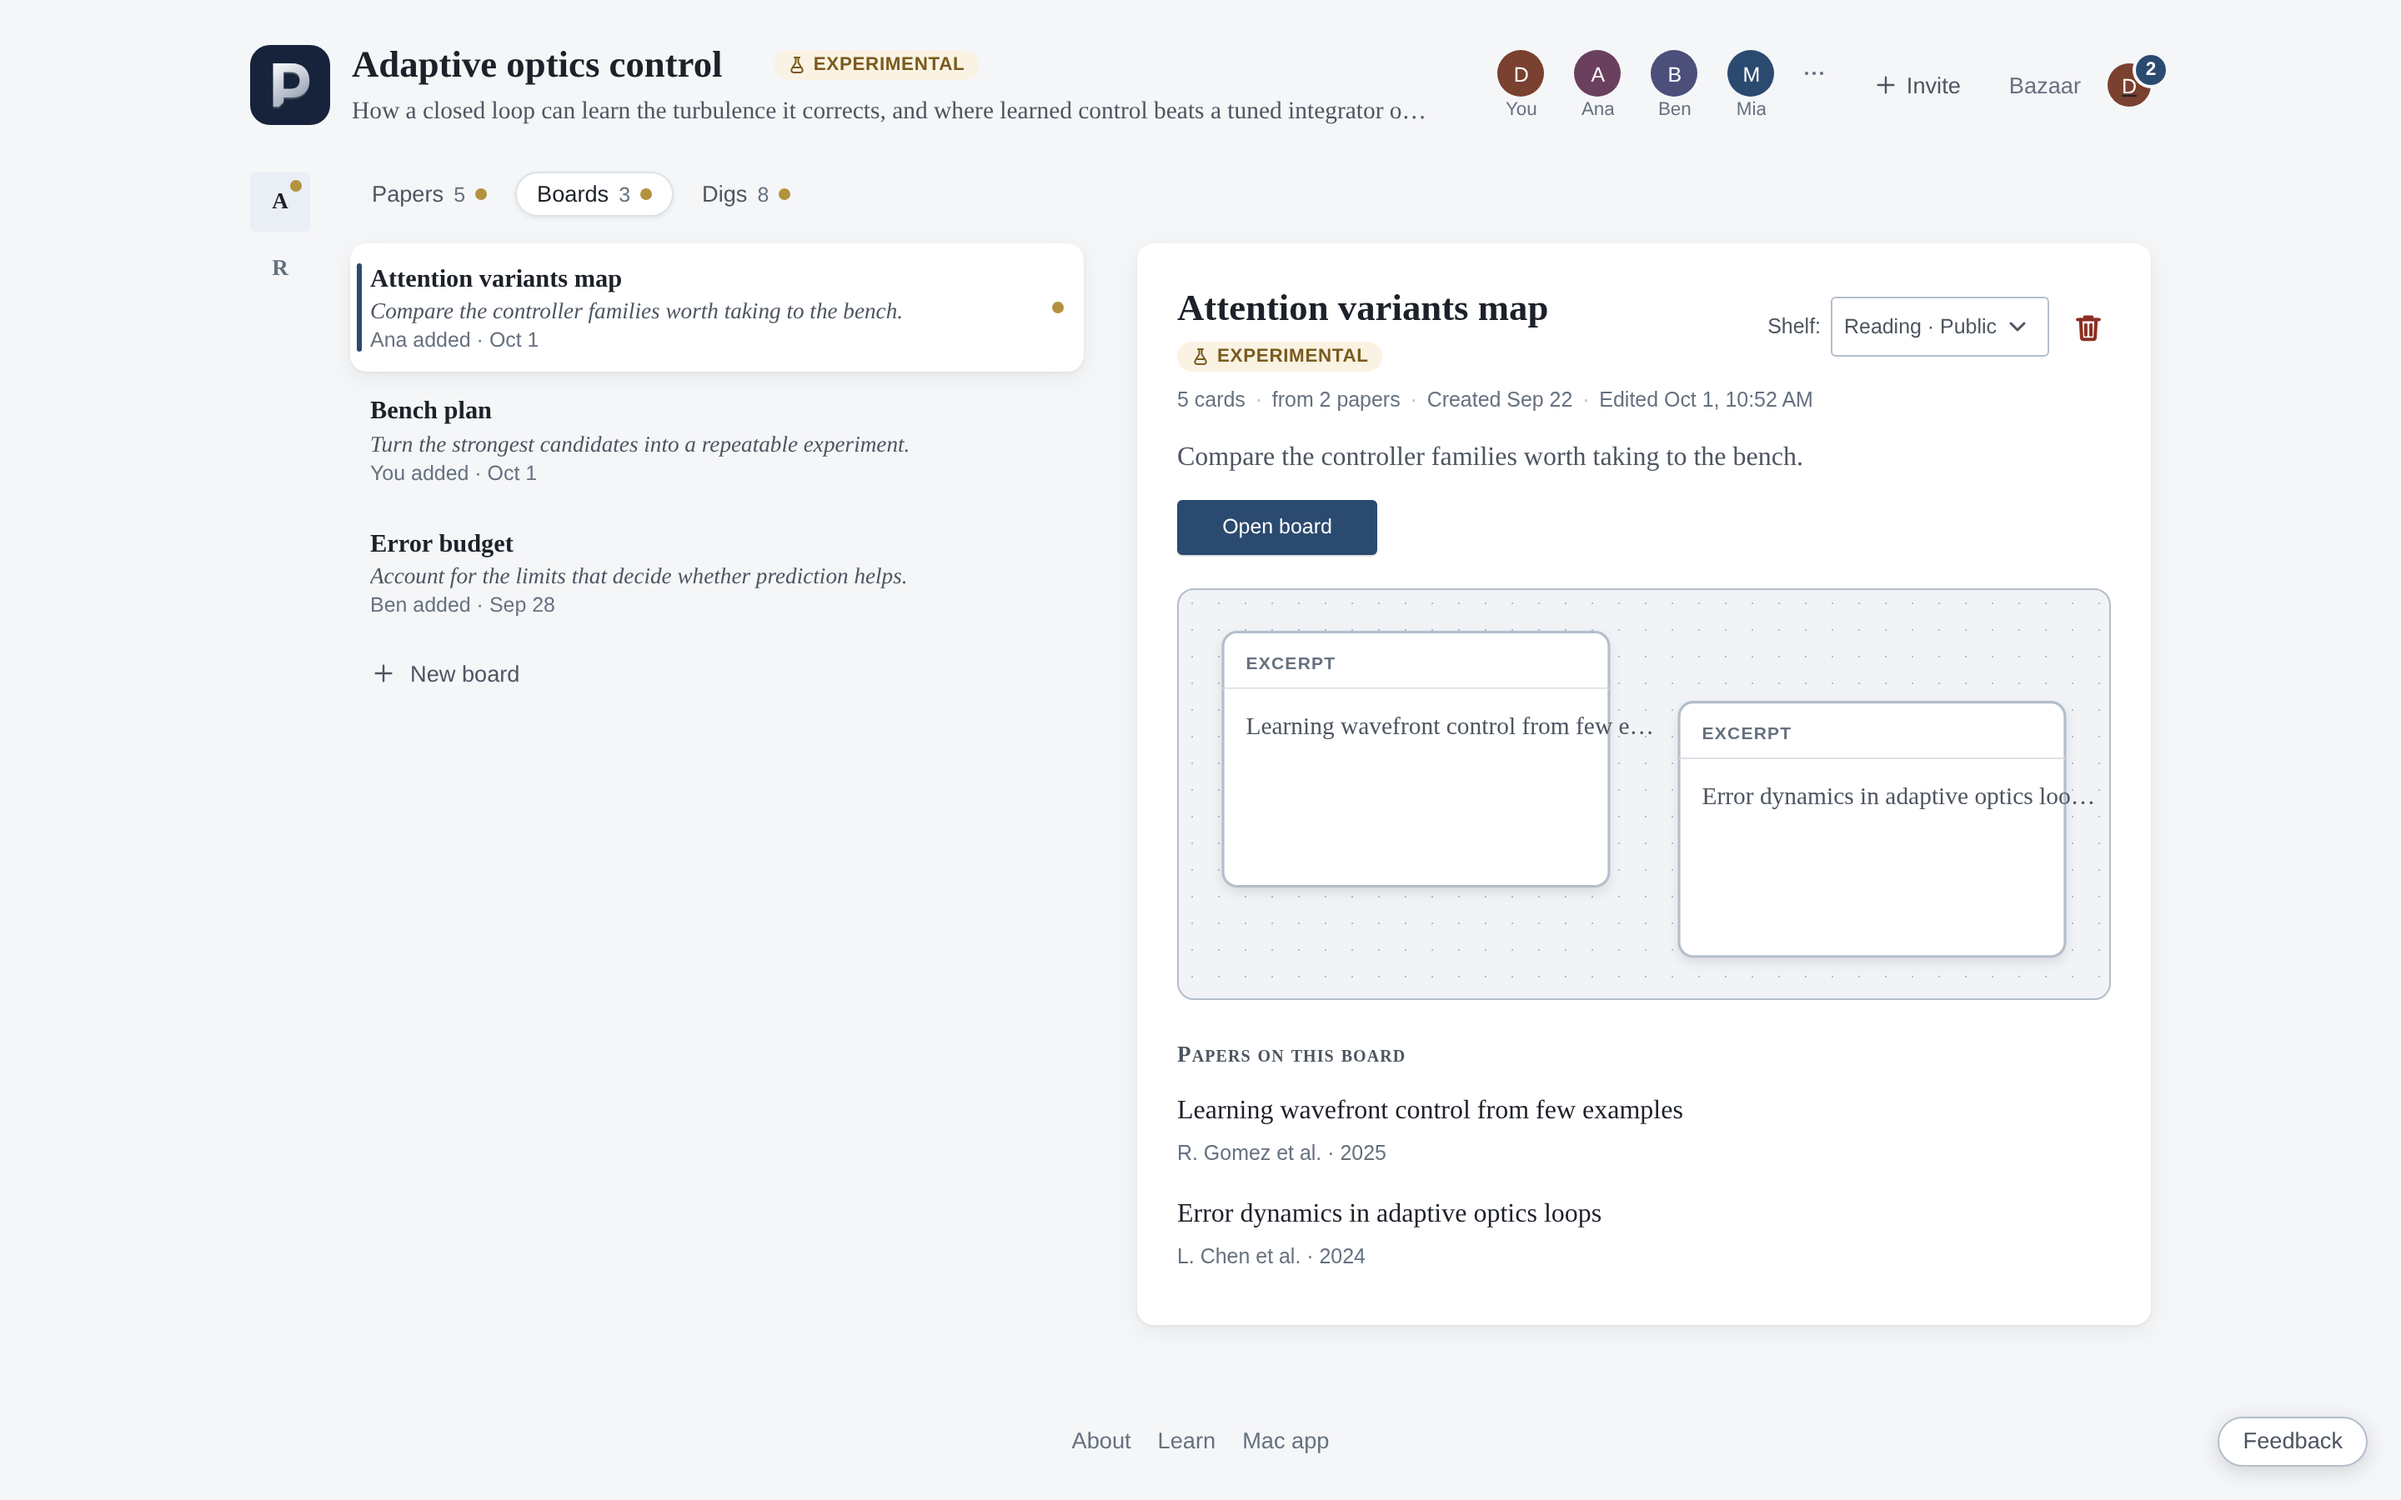
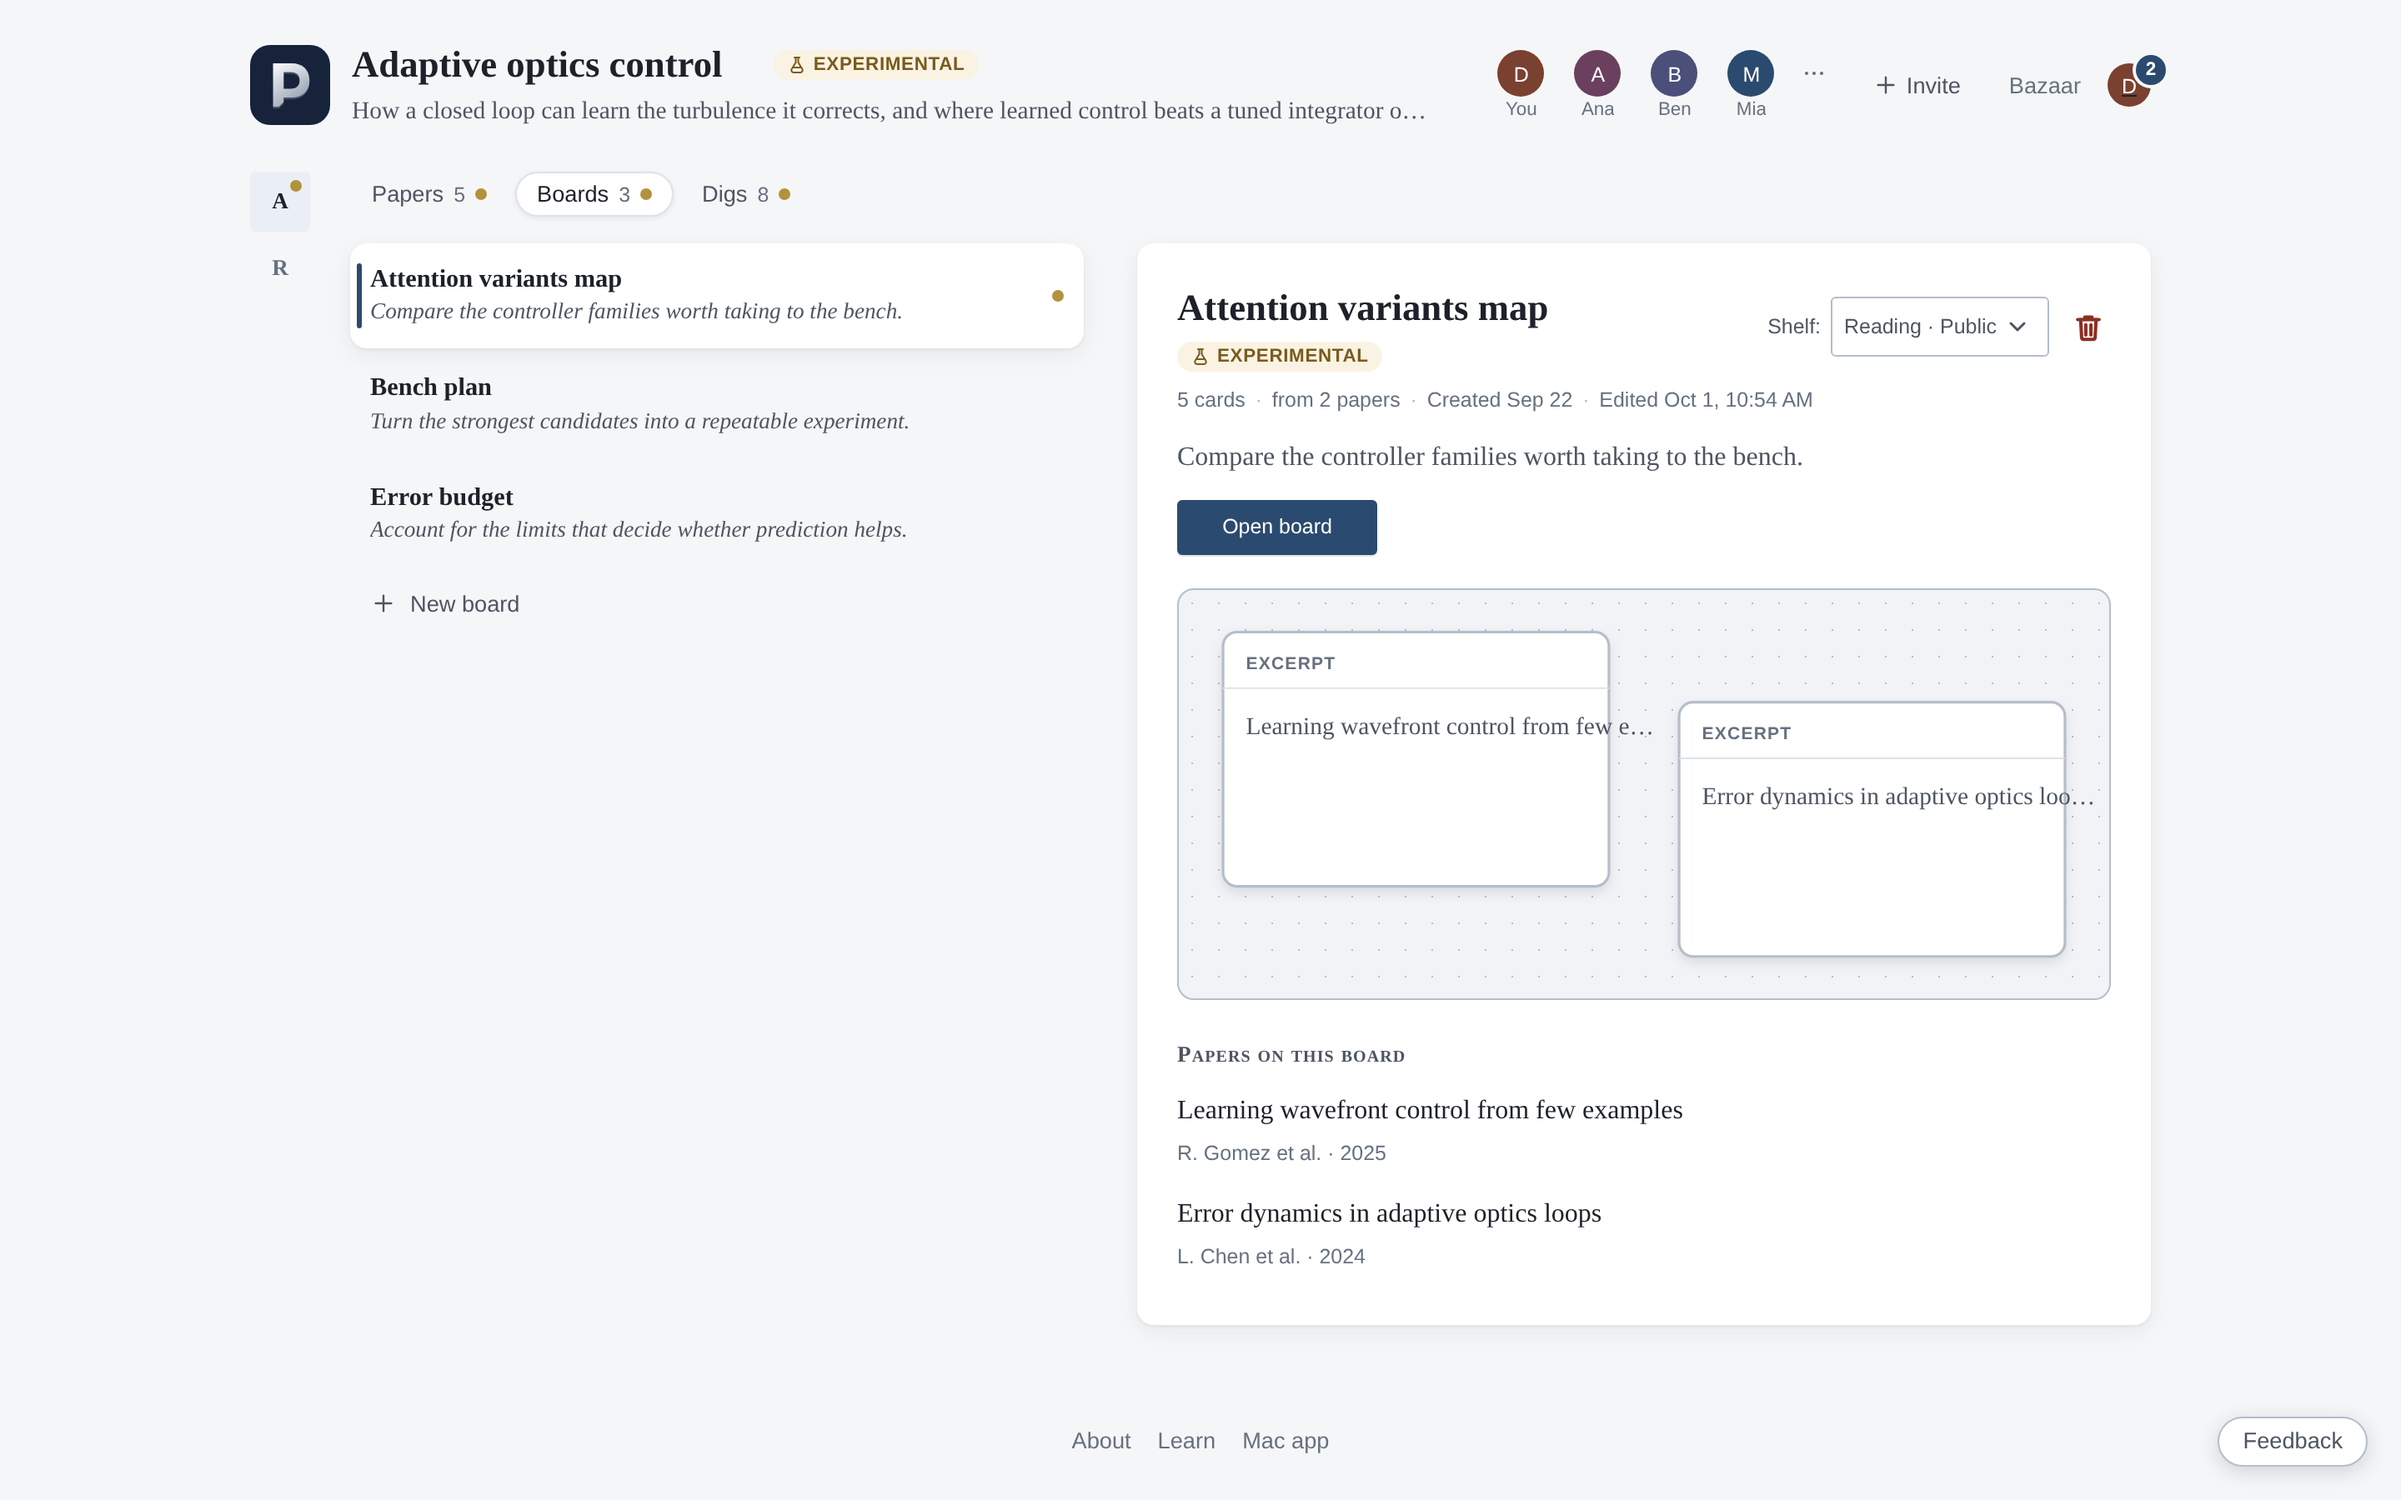
Keep board rail descriptions uncluttered

Changed region(s): [[0.1562, 0.2178, 0.375, 0.4044], [0.1562, 0.4356, 0.2188, 0.4667]]

diff --git a/frontend/src/components/ProjectPage.jsx b/frontend/src/components/ProjectPage.jsx
@@ -270,7 +270,7 @@ export default function ProjectPage({ projectUuid, board = null, currentUser, on
             )}
             {view === 'boards' && (
               <ProjectBoards
-                project={project} board={board} act={act} hasNews={hasNews} currentUser={currentUser}
+                project={project} board={board} act={act} hasNews={hasNews}
                 onOpenBoard={onOpenBoard} onOpenCanvas={onOpenCanvas} onChanged={talked}
               />
             )}
@@ -709,13 +709,13 @@ function useWide(query = '(min-width: 1000px)') {
 }
 
 // The project's boards, which every member arranges, as a list read like
-// the papers: each board by its name and description, then who last put
-// something there. A board picked here opens its jacket beside the list on a
-// wide window, under its row on a narrow one, and has the address of its
+// the papers: each board by its name and description. A board picked here
+// opens its jacket beside the list on a wide window, under its row on a
+// narrow one, and has the address of its
 // own; the canvas is the jacket's way in. On a wide window there is always
 // a jacket beside the list: the one picked, else the first new board,
 // else the latest. The last row makes one more.
-function ProjectBoards({ project, board, act, hasNews, currentUser, onOpenBoard, onOpenCanvas, onChanged }) {
+function ProjectBoards({ project, board, act, hasNews, onOpenBoard, onOpenCanvas, onChanged }) {
   const wide = useWide();
   const boards = project.boards ?? [];
   const chosen = boards.find((b) => b.uuid === board)
@@ -723,7 +723,6 @@ function ProjectBoards({ project, board, act, hasNews, currentUser, onOpenBoard,
   // Moving from one board to the next replaces the address, so Back
   // leaves the tab rather than walking through every board looked at.
   const pick = (uuid) => onOpenBoard(uuid, board ? { replace: true } : undefined);
-  const isMe = (user) => user.uuid === currentUser?.uuid;
   const jacket = (b) => (
     <BoardJacket
       key={b.uuid}
@@ -751,8 +750,6 @@ function ProjectBoards({ project, board, act, hasNews, currentUser, onOpenBoard,
           const selected = chosen?.uuid === b.uuid;
           // A narrow window folds the jacket away again on a second press.
           const choose = () => (selected && !wide ? onOpenBoard(null, { replace: true }) : pick(b.uuid));
-          const latest = b.latest_card;
-          const who = latest ? latest.added_by : b.owner;
           return (
             <React.Fragment key={b.uuid}>
               <li
@@ -772,12 +769,6 @@ function ProjectBoards({ project, board, act, hasNews, currentUser, onOpenBoard,
                   </h4>
                   {b.description && <p className="project-card-authors project-board-description">{b.description}</p>}
                 </div>
-                <span className="project-row-facts">
-                  <span className="project-card-added">
-                    {who && <>{isMe(who) ? 'You' : firstName(who)} {latest ? 'added' : 'made it'} · </>}
-                    {when(latest ? latest.added_at : b.created_at ?? b.updated_at)}
-                  </span>
-                </span>
                 <span className="project-row-end">
                   {(b.is_new || hasNews((subject) => subject.board_uuid === b.uuid)) && <NewsDot />}
                 </span>

diff --git a/shared/applicationStyles.js b/shared/applicationStyles.js
@@ -5250,9 +5250,10 @@ button.project-quiet.project-danger:hover:not(:disabled) { background: var(--red
 .project-card-authors { margin: 0; overflow: hidden; color: var(--ink-soft); font: italic var(--fs-sm) var(--font-serif); text-overflow: ellipsis; white-space: nowrap; }
 .project-card-added { margin: var(--space-2) 0 0; color: var(--ink-faint); font: var(--fs-xs) var(--font-ui); }
 .project-paper-added { margin: 0; color: var(--ink-faint); font: var(--fs-xs) var(--font-ui); }
-/* Boards as rows, read like the papers: the name, its description, and who
-   last put something there. The last row makes one more, quiet until
+/* Boards as rows, read like the papers: the name and its description. The
+   news dot keeps the far edge. The last row makes one more, quiet until
    pressed, when it takes the name in place. */
+.project-row.project-board { grid-template-columns: minmax(0, 1fr) auto; }
 .project-row.project-board-new { display: block; padding: 0; cursor: default; }
 .project-row.project-board-new:hover { background: none; }
 .project-board-add { display: flex; align-items: center; gap: var(--space-2); width: 100%; min-height: 0; padding: var(--space-3); border: 0; border-radius: var(--radius-lg); background: none; box-shadow: none; color: var(--ink-soft); font: 500 var(--fs-sm) var(--font-ui); text-align: left; }

diff --git a/frontend/src/projectBoards.test.js b/frontend/src/projectBoards.test.js
@@ -16,8 +16,7 @@ test('boards are rows with a pane, as papers are', () => {
 
 test('a row says what the board is for, not what its newest card holds', () => {
   assert.match(boards, /b\.description && <p className="project-card-authors project-board-description">\{b\.description\}<\/p>/);
-  assert.doesNotMatch(boards, /latest\?\.text/);
-  assert.match(boards, /\{isMe\(who\) \? 'You' : firstName\(who\)\} \{latest \? 'added' : 'made it'\}/);
+  assert.doesNotMatch(boards, /latest_card|project-card-added|firstName|when\(/);
 });
 
 test('moving between boards replaces the address, so Back leaves the tab', () => {
